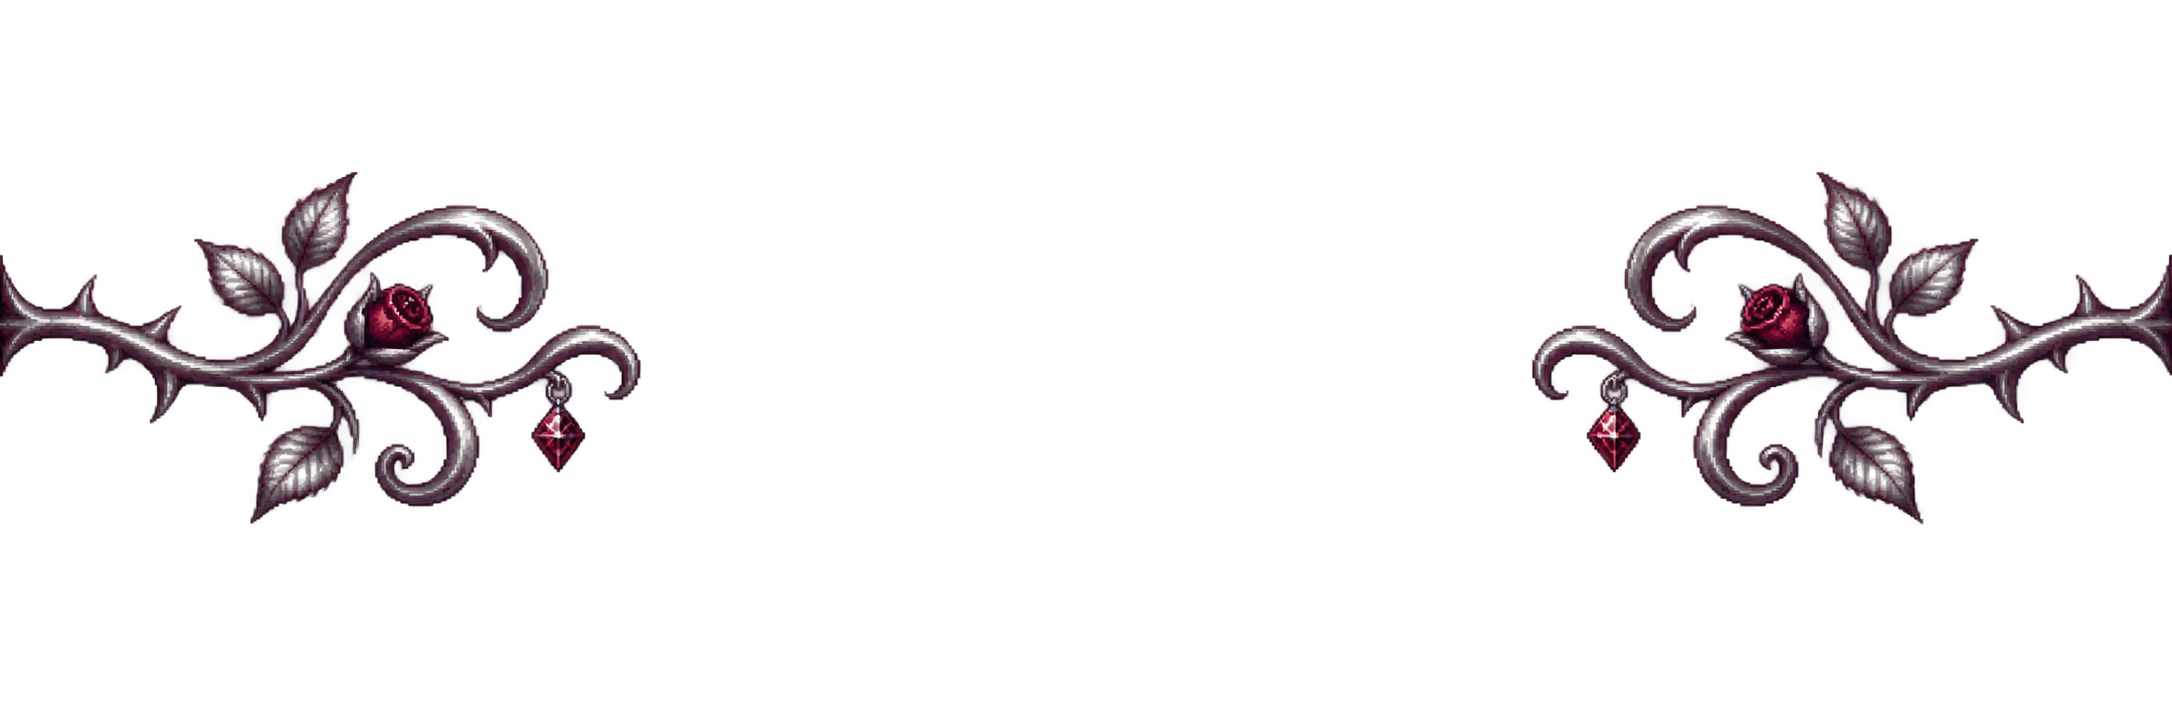
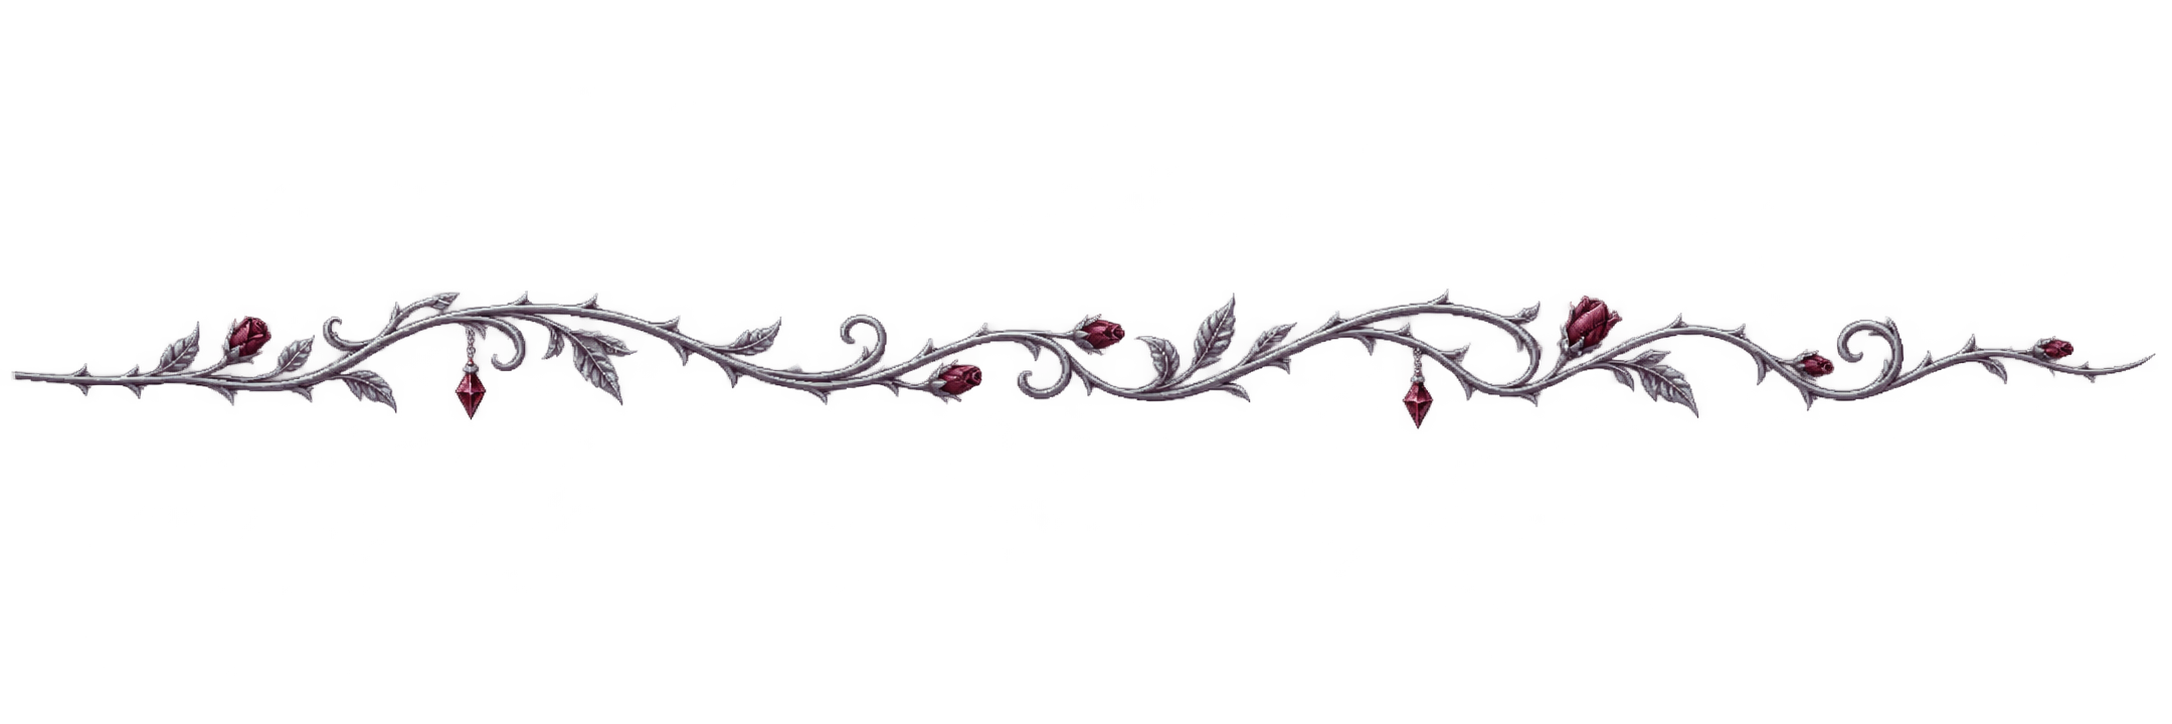
fix: Use longer caret ornaments without stretching their proportions

Changed region(s): [[0.0, 0.2431, 1.0, 0.7293]]

diff --git a/src/app/scenery/catgirl.rs b/src/app/scenery/catgirl.rs
@@ -255,6 +255,13 @@ fn paint_inner_ornament(ui: &egui::Ui, portrait: Rect) {
         .add(ornament_mesh(texture.id(), portrait));
 }
 
+fn caret_ornament_size(asset: egui::Vec2, pane: egui::Vec2) -> egui::Vec2 {
+    let scale = ((pane.y - 4.0) / asset.y)
+        .min((pane.x * 0.5 - 20.0) / asset.x)
+        .max(0.0);
+    asset * scale
+}
+
 fn paint_caret_ornament(ui: &egui::Ui, rect: Rect) {
     let Some(texture) = texture(
         ui.ctx(),
@@ -264,8 +271,8 @@ fn paint_caret_ornament(ui: &egui::Ui, rect: Rect) {
     ) else {
         return;
     };
-    let height = rect.height() - 4.0;
-    let width = rect.width() * 0.4;
+    let size = caret_ornament_size(texture.size_vec2() * egui::vec2(0.5, 1.0), rect.size());
+    let (width, height) = (size.x, size.y);
     let painter = ui.painter().with_clip_rect(ui.clip_rect().intersect(rect));
     for right in [false, true] {
         let target = Rect::from_min_size(
@@ -760,6 +767,17 @@ mod tests {
         source.put_pixel(2, 3, image::Rgba([255, 255, 255, 255]));
         source.put_pixel(5, 6, image::Rgba([255, 255, 255, 255]));
         assert_eq!(trim_transparent_border(&source).dimensions(), (4, 4));
+    }
+
+    #[test]
+    fn caret_artwork_keeps_its_aspect_ratio_at_both_sidebar_widths() {
+        let asset = egui::vec2(1024.0, 128.0);
+        for width in [288.0, 448.0] {
+            let size = caret_ornament_size(asset, egui::vec2(width, TOGGLE_HEIGHT));
+            assert!((size.x / size.y - asset.x / asset.y).abs() < 0.001);
+            assert!(size.x <= width * 0.5 - 20.0);
+            assert!(size.y <= TOGGLE_HEIGHT - 4.0);
+        }
     }
 
     #[test]

diff --git a/SPECIFICATION.md b/SPECIFICATION.md
@@ -61,7 +61,7 @@ Provide:
   - New job: Happy; Check now: Energetic; Remove job: Pouting; Settings: Curious; select job: Waiting; Dark mode: Happy; Light mode: Sleepy.
 - When Saya enters her in-love expression, three ruby hearts briefly rise and fade inside the sidebar frame. Holding the expression does not replay the effect.
 - Saya's bottom-anchored companion panel uses one continuous outer silver frame around a square portrait, plain letterbox and attached caret strip. Keep the outer border plain, with a purpose-built symmetrical portrait frame with straight silver edge rails and inward-growing vines and burgundy roses, clipped clear of the shared frame and divider. No corner ornaments may overlap the dialogue or caret strip. Keep one divider beneath the portrait and no gaps between sections. Show it on an empty start screen; scroll jobs above it.
-  - The strip contains a centered downward/upward caret and rich mirrored silver scrolls, burgundy roses and ruby pendants rooted at its side borders, clipped inside the strip. It stays at the same bottom position in both states. Minimize/maximize with a reversible 240 ms eased slide and fade, reclaiming job-list space smoothly. Start expanded on every launch.
+  - The strip contains a centered downward/upward caret and rich mirrored silver scrolls, burgundy roses and ruby pendants rooted at its side borders, clipped inside the strip and uniformly scaled at their natural aspect ratio. It stays at the same bottom position in both states. Minimize/maximize with a reversible 240 ms eased slide and fade, reclaiming job-list space smoothly. Start expanded on every launch.
 - Midnight Neko uses Saya's ornate Kurobane family emblem beside the app and job names at 56 and 80 logical pixels respectively. The 72-pixel job status heads retain the same reference colors in both modes and use separately rendered play and pause badges.
 - Midnight Neko job cards use distinct Saya heads for jobs with automatic backups enabled (open eyes and small fangs visible beneath closed lips with a play badge) or disabled (sleeping Saya with a pause badge). Align the head with the lower card border and keep the badge inside it.
 - Midnight Neko sidebar clicks select among all 26 refined non-neutral Saya expressions without immediate repeats. Direct clicks switch immediately, including while hovered. The welcome figure stays static and does not react to clicks.

diff --git a/assets/themes/midnight-neko/README.md b/assets/themes/midnight-neko/README.md
@@ -49,8 +49,8 @@ rails and inward-growing silver vines and burgundy roses. It is drawn edge-to-ed
 inside the portrait, without enlargement or floating margins. One quadrant is
 reflected across both axes for exact symmetry.
 
-`caret-ornament.png` adds richer silver scrolls, roses and ruby pendants inside the
-min/max pane. Its left flourish is reflected on the right, leaving the central
-caret unobstructed. Both assets are clipped to their own panes and were made with
+`caret-ornament.png` is one long, shallow silver flourish with roses and ruby
+pendants. It is cropped to its alpha bounds; its left half supplies the flourish and is mirrored on the right. Both sides
+scale uniformly at their natural aspect ratio, leaving the central caret clear. Both assets are clipped to their own panes and were made with
 built-in imagegen; their adjacent `.prompt.txt` files record the prompts. Textures
 larger than 1024 pixels are reduced when loaded for GPU compatibility.
